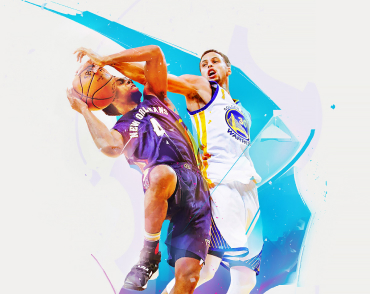
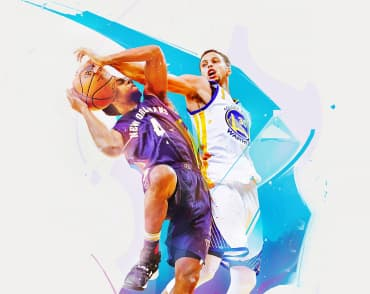
исправляет ошибки, оптимизирует фото и картинки

diff --git a/index.html b/index.html
@@ -335,24 +335,24 @@
 
     <footer class="footer-dark">
       <div class="container">
-        <div class="logo-container">
-          <a class="logo-link" href="WebStudio"><span class="logo-web">Web</span> <span class="logo-studio-footer">Studio</span></a>
-        </div>
-
         <address class="address">
-          <ul class="footer-list">
-            <li>
-              <a class="footer-map" href="https://goo.gl/maps/9hXhkvQrHoETYkARA" target="_blank">
-                <p class="text">г. Киев, пр-т Леси Украинки, 26</p></a
-              >
-            </li>
-            <li>
-              <a class="footer-mail" href="mailto:info@example.com">info@devstudio.com</a>
-            </li>
-            <li>
-              <a class="footer-tel" href="tel:+380961111111">+38 096 111 11 11</a>
-            </li>
-          </ul>
+          <div class="logo-container">
+            <a class="logo-link" href="WebStudio"><span class="logo-web">Web</span> <span class="logo-studio-footer">Studio</span></a>
+            <ul class="footer-list">
+              <li>
+                <a class="footer-map" href="https://goo.gl/maps/9hXhkvQrHoETYkARA" target="_blank">
+                  <p class="text">г. Киев, пр-т Леси Украинки, 26</p>
+                </a>
+              </li>
+              <li>
+                <a class="footer-mail" href="mailto:info@example.com">info@devstudio.com</a>
+              </li>
+              <li>
+                <a class="footer-tel" href="tel:+380961111111">+38 096 111 11 11</a>
+              </li>
+            </ul>
+          </div>
+
           <div class="social-links-footer">
             <h3 class="unite">ПРИСОЕДИНЯЙТЕСЬ</h3>
             <ul class="footer-social-networks-list">

diff --git a/css/styles.css b/css/styles.css
@@ -594,6 +594,7 @@ header {
   margin-right: 80px;
 }*/
 .logo-container {
+  display: block;
   margin-bottom: 20px;
 }
 .footer-map {
@@ -623,10 +624,10 @@ header {
   margin-top: 20px;
 }
 .social-links-footer {
-  display: block;
+  display: flex;
   width: 206px;
-  height: 80px;
-  padding-top: 12px;
+  /*height: 80px;
+  padding-top: 12px;*/
 }
 .unite {
   font-weight: 700;
@@ -635,7 +636,7 @@ header {
   letter-spacing: 0.03em;
   text-transform: uppercase;
   color: #ffffff;
-  text-align: center;
+  text-align: start;
   margin-bottom: 20px;
   font-style: normal;
 }
@@ -645,7 +646,7 @@ header {
   margin-left: 70px;
   flex-direction: column;
 }
-.footer-social-networks {
+.footer-social-networks-list {
   display: flex;
   width: 206px;
   justify-content: space-between;

diff --git a/portfolio.html b/portfolio.html
@@ -108,7 +108,7 @@
               </div>
          </li>
           <li class="work-desc-container">
-            <img src="./imj-portfolio/imgBoxes.png" alt="две коробки" width="370" height="294" />
+            <img src="./imj-portfolio/imgBoxes.jpg" alt="две коробки" width="370" height="294" />
               <div class="work-card">
                 <h2 class="company-works">Проект <span lang="en"> Boxes</span></h2>
                 <p class="description">Приложение</p>
